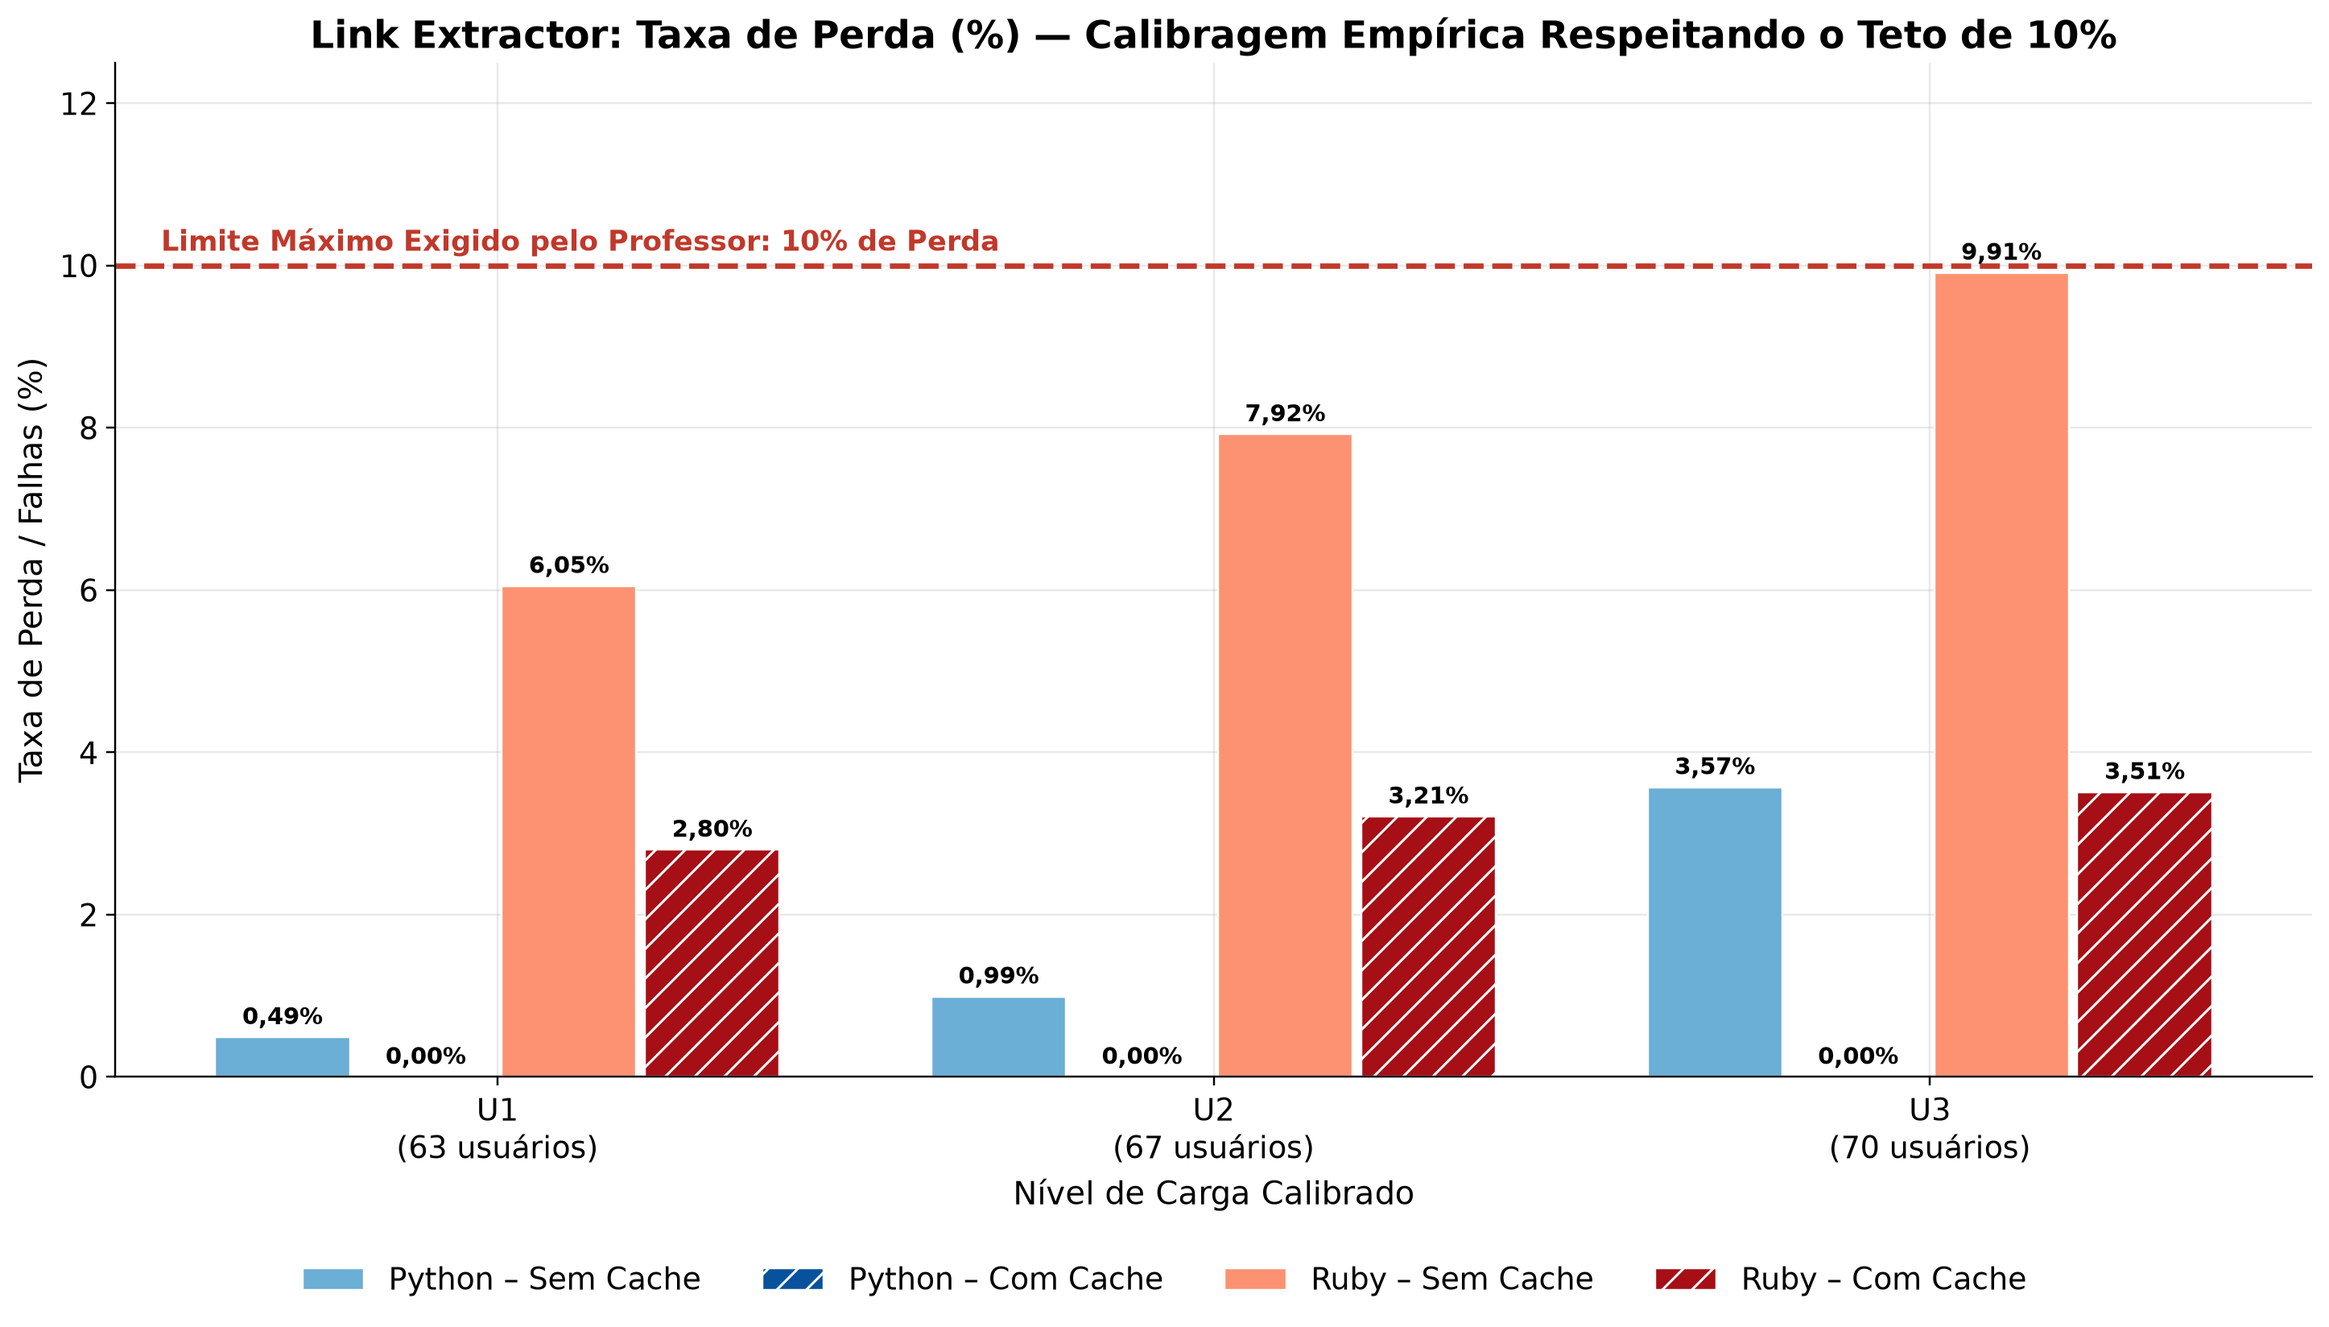
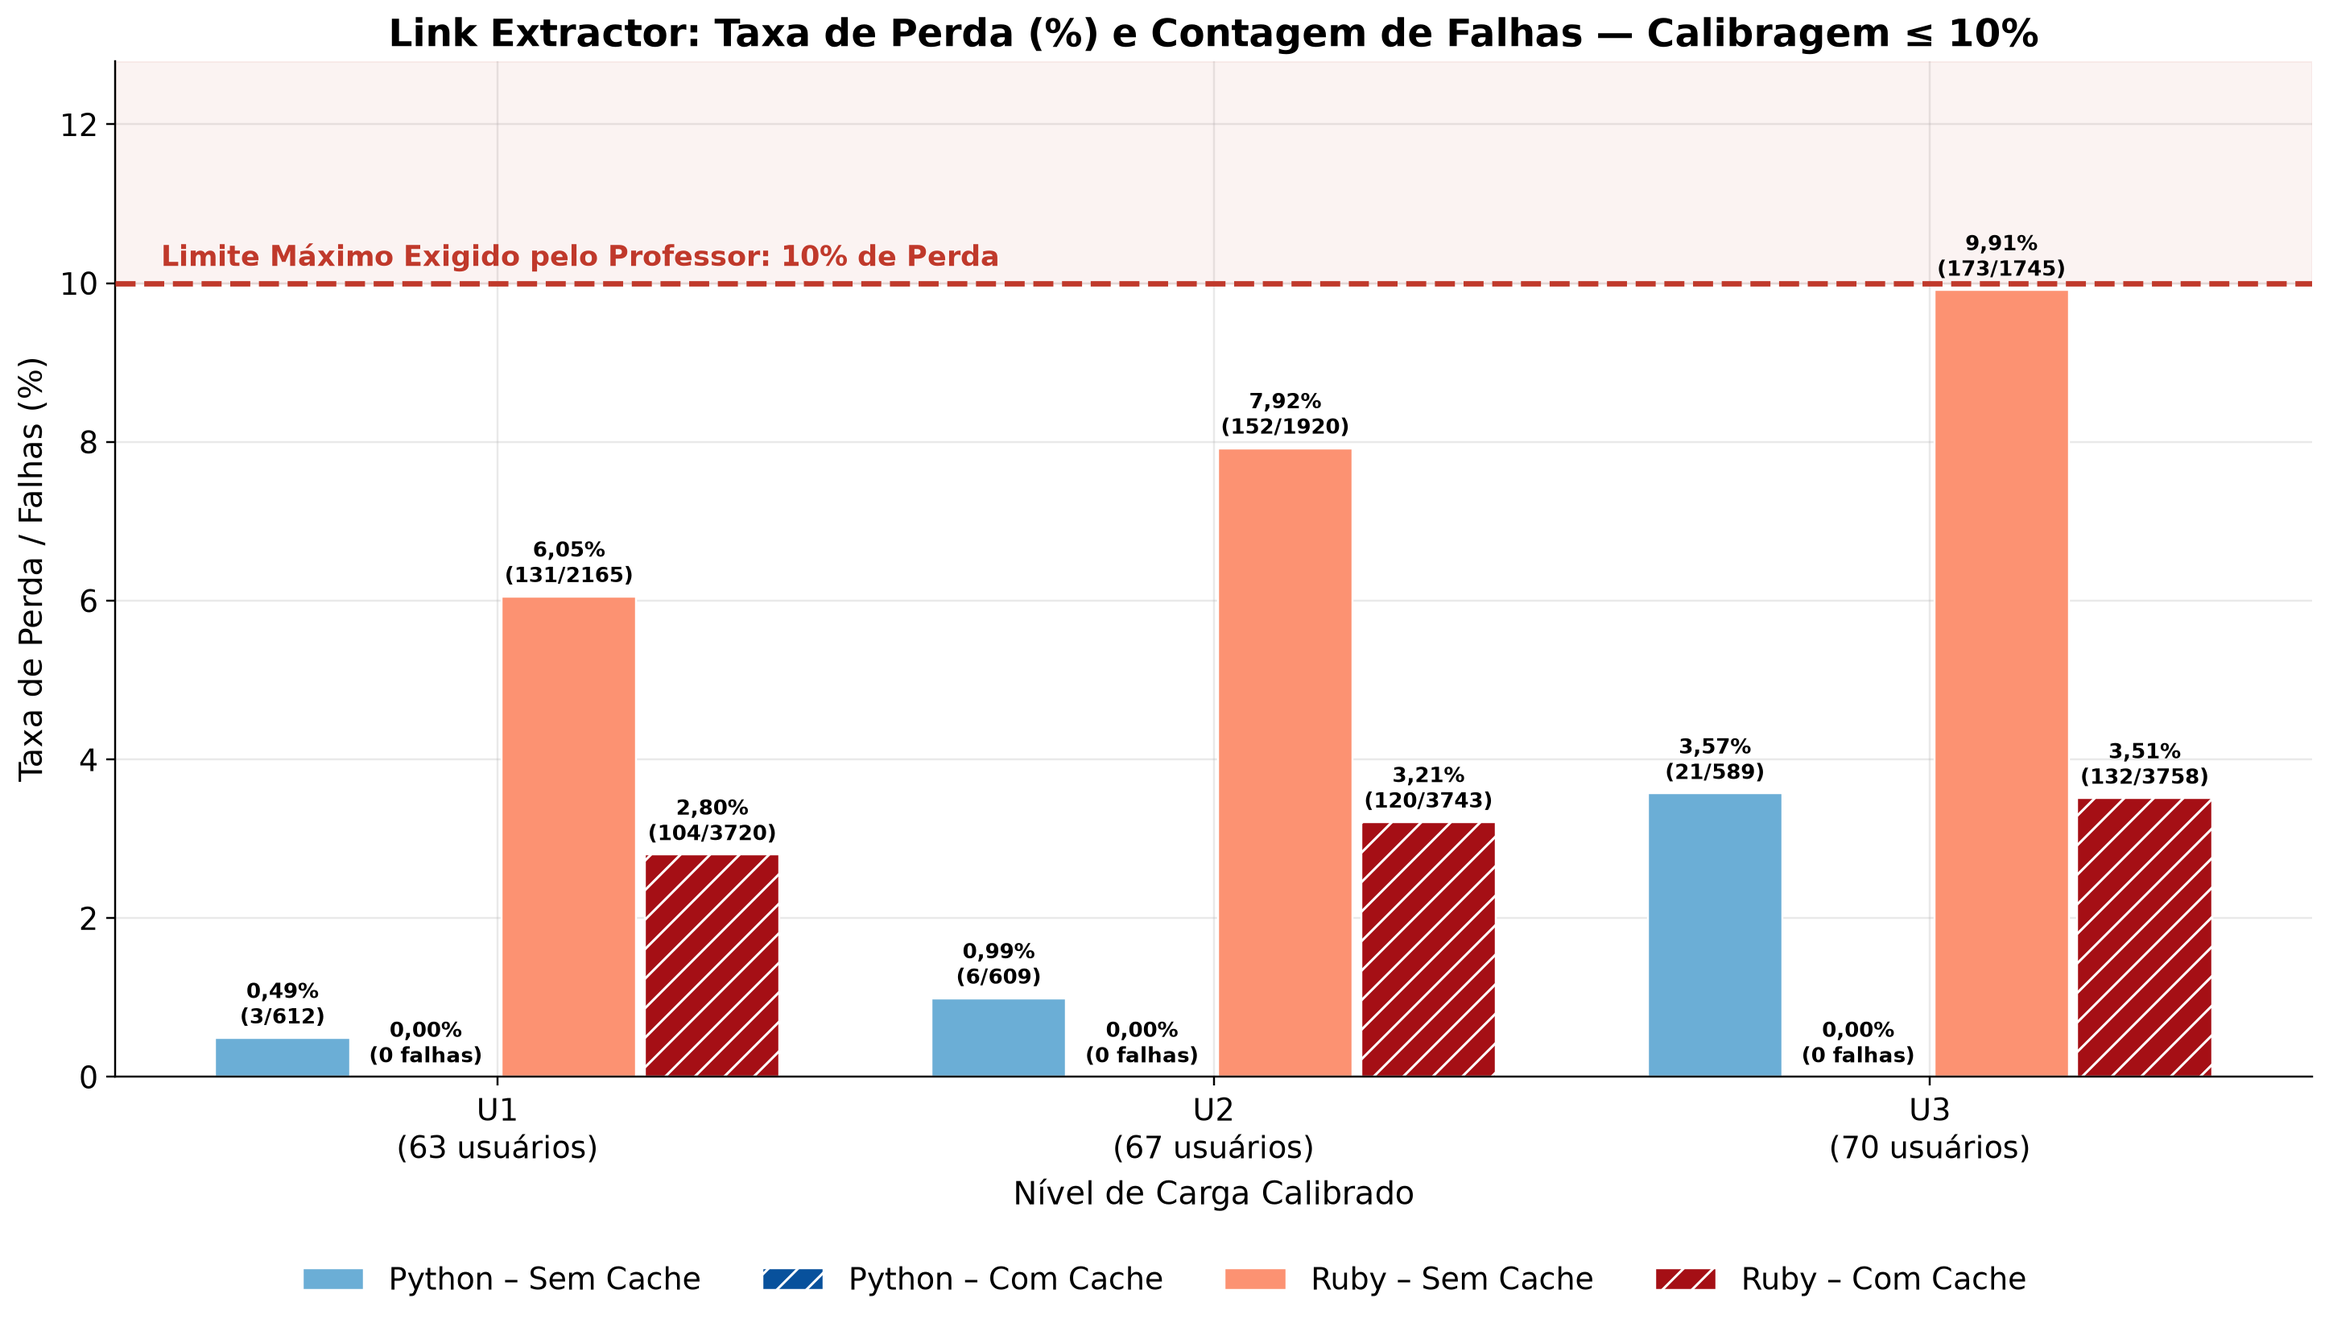
feat(graficos): adiciona graficos de barras de falhas absolutas, sucessos vs falhas e calibragem (<= 10%)

diff --git a/gerar_graficos.py b/gerar_graficos.py
@@ -1,15 +1,20 @@
 #!/usr/bin/env python3
-"""Geração de gráficos em alta resolução para o Google Slides - Trabalho 4 (Link Extractor).
+"""Geração de gráficos de barras em alta resolução para o Google Slides - Trabalho 4 (Link Extractor).
 
-Lê `resultados/tabela_consolidada_trabalho4.csv` e gera na pasta `graficos/` (formato 16:9, 220 DPI):
+Lê `resultados/tabela_consolidada_trabalho4.csv` (e `resultados/calibragem.json`) e gera na pasta `graficos/`
+(formato widescreen 16:9, 220 DPI), todos em GRÁFICOS DE BARRAS conforme exigido pelo professor:
   1. 01_tempo_resposta_media_mediana.png     -> Média e Mediana: Python vs Ruby (Sem vs Com Cache)
   2. 02_percentis_painel_comparativo.png     -> Painel consolidado p50/p90/p95/p99 nos 3 níveis U1, U2, U3
      02_percentis_U1.png / U2.png / U3.png   -> Percentis detalhados por nível de carga
   3. 03_vazao_rps.png                        -> Vazão (Requests/s) com destaque do ganho com Redis
-  4. 04_taxa_perda.png                       -> Taxa de Perda (%) comprovando o limite <= 10%
+  4. 04_taxa_perda.png                       -> Taxa de Perda (%) + contagem (falhas/total) e teto de 10%
+  5. 05_falhas_absolutas_e_sucessos.png      -> Barras de Falhas Absolutas + Barras Empilhadas (Sucessos vs. Falhas)
+  6. 06_calibragem_barras.png                -> Barras da Calibragem Empírica destacando U1, U2, U3 e o teto de 10%
 """
 
 import argparse
+import csv
+import json
 import sys
 from pathlib import Path
 
@@ -17,6 +22,8 @@ import matplotlib
 
 matplotlib.use("Agg")
 import matplotlib.pyplot as plt  # noqa: E402
+from matplotlib.lines import Line2D  # noqa: E402
+from matplotlib.patches import Patch  # noqa: E402
 import numpy as np  # noqa: E402
 import pandas as pd  # noqa: E402
 
@@ -314,27 +321,277 @@ def grafico_vazao(df: pd.DataFrame, saida: Path):
 
 
 def grafico_perda(df: pd.DataFrame, saida: Path, teto: float = 10.0):
+    """Gráfico de barras de Taxa de Perda (%) por nível (U1, U2, U3) e arquitetura,
+    exibindo tanto a porcentagem quanto a contagem absoluta (falhas/total) em cada barra."""
     niveis = sorted(df["Nível"].unique())
     rotulos = [rotulo_nivel(df)[n] for n in niveis]
     fig, ax = plt.subplots(figsize=TAMANHO_SLIDE)
-    barras_agrupadas(ax, niveis, rotulos, df, "Nível", "% de Perda", log=False, sufixo="%", fonte_valor=9.5)
-    ax.axhline(teto, color="#c0392b", linestyle="--", linewidth=2.2)
+
+    largura = 0.20
+    x = np.arange(len(niveis))
+    max_pct = teto
+    for i, (lang, cache, cor, hachura) in enumerate(SERIES):
+        valores_pct = [valor(df, lang, cache, "Nível", n, "% de Perda") for n in niveis]
+        valores_falhas = [valor(df, lang, cache, "Nível", n, "Falhas") for n in niveis]
+        valores_total = [valor(df, lang, cache, "Nível", n, "Total de Requisições") for n in niveis]
+        posicoes = x + (i - 1.5) * largura
+        barras = ax.bar(
+            posicoes,
+            valores_pct,
+            largura * 0.94,
+            label=f"{lang} – {cache}",
+            color=cor,
+            hatch=hachura,
+            edgecolor="white",
+            linewidth=0.8,
+        )
+        for barra, pct, falhas, total in zip(barras, valores_pct, valores_falhas, valores_total):
+            if not np.isnan(pct):
+                max_pct = max(max_pct, pct)
+                f_int = int(falhas) if not np.isnan(falhas) else 0
+                t_int = int(total) if not np.isnan(total) else 0
+                texto = f"{formatar(pct)}%\n({f_int}/{t_int})" if f_int > 0 else "0,00%\n(0 falhas)"
+                ax.annotate(
+                    texto,
+                    (barra.get_x() + barra.get_width() / 2.0, barra.get_height()),
+                    ha="center",
+                    va="bottom",
+                    fontsize=8.6,
+                    fontweight="bold",
+                    xytext=(0, 3),
+                    textcoords="offset points",
+                )
+
+    topo = max(teto * 1.28, max_pct * 1.22)
+    ax.axhline(teto, color="#c0392b", linestyle="--", linewidth=2.2, zorder=3)
+    ax.axhspan(teto, topo, color="#c0392b", alpha=0.06, zorder=1)
     ax.annotate(
         f"Limite Máximo Exigido pelo Professor: {teto:.0f}% de Perda",
         (ax.get_xlim()[0] + 0.05, teto),
-        xytext=(4, 6),
+        xytext=(4, 7),
         textcoords="offset points",
         color="#c0392b",
         fontsize=11.5,
         fontweight="bold",
     )
-    ax.set_ylim(0, max(teto * 1.25, ax.get_ylim()[1]))
+    ax.set_xticks(x)
+    ax.set_xticklabels(rotulos)
+    ax.set_ylim(0, topo)
     ax.set_xlabel("Nível de Carga Calibrado")
     ax.set_ylabel("Taxa de Perda / Falhas (%)")
-    ax.set_title("Link Extractor: Taxa de Perda (%) — Calibragem Empírica Respeitando o Teto de 10%")
+    ax.set_title("Link Extractor: Taxa de Perda (%) e Contagem de Falhas — Calibragem ≤ 10%")
     fig.tight_layout(rect=(0, 0.05, 1, 1))
     legenda_inferior(fig, ax)
     salvar(fig, saida / "04_taxa_perda.png")
+
+
+def grafico_falhas_absolutas_e_sucessos(df: pd.DataFrame, saida: Path):
+    """Painel duplo de gráficos de barras dedicados às falhas por nível (U1, U2, U3) e arquitetura:
+    - Esquerda: Quantidade absoluta de requisições com falha (barras agrupadas com 'N falhas (X,XX%)')
+    - Direita:  Barras empilhadas de Requisições com Sucesso vs. Requisições com Falha (volume total)
+    """
+    niveis = sorted(df["Nível"].unique())
+    rotulos = [rotulo_nivel(df)[n] for n in niveis]
+    fig, (ax_abs, ax_emp) = plt.subplots(1, 2, figsize=(15.5, 7.5))
+
+    largura = 0.20
+    x = np.arange(len(niveis))
+
+    # --- Painel 1: Quantidade Absoluta de Falhas ---
+    max_falhas = 1.0
+    for i, (lang, cache, cor, hachura) in enumerate(SERIES):
+        falhas = [valor(df, lang, cache, "Nível", n, "Falhas") for n in niveis]
+        pcts = [valor(df, lang, cache, "Nível", n, "% de Perda") for n in niveis]
+        posicoes = x + (i - 1.5) * largura
+        barras = ax_abs.bar(
+            posicoes,
+            falhas,
+            largura * 0.94,
+            label=f"{lang} – {cache}",
+            color=cor,
+            hatch=hachura,
+            edgecolor="white",
+            linewidth=0.8,
+        )
+        for barra, f_val, p_val in zip(barras, falhas, pcts):
+            if not np.isnan(f_val):
+                max_falhas = max(max_falhas, f_val)
+                f_int = int(f_val)
+                rotulo_barra = f"{f_int}\n({formatar(p_val)}%)" if f_int > 0 else "0\n(0%)"
+                ax_abs.annotate(
+                    rotulo_barra,
+                    (barra.get_x() + barra.get_width() / 2.0, barra.get_height()),
+                    ha="center",
+                    va="bottom",
+                    fontsize=8.2,
+                    fontweight="bold",
+                    xytext=(0, 3),
+                    textcoords="offset points",
+                )
+
+    ax_abs.set_xticks(x)
+    ax_abs.set_xticklabels(rotulos)
+    ax_abs.set_ylim(0, max_falhas * 1.24)
+    ax_abs.set_xlabel("Nível de Carga Calibrado")
+    ax_abs.set_ylabel("Quantidade de Requisições com Falha")
+    ax_abs.set_title("Quantidade Absoluta de Falhas (e % de Perda)")
+
+    # --- Painel 2: Barras Empilhadas (Sucessos vs. Falhas no Total de Requisições) ---
+    max_total = 1.0
+    for i, (lang, cache, cor, hachura) in enumerate(SERIES):
+        totais = [valor(df, lang, cache, "Nível", n, "Total de Requisições") for n in niveis]
+        falhas = [valor(df, lang, cache, "Nível", n, "Falhas") for n in niveis]
+        sucessos = [max(0.0, t - f) for t, f in zip(totais, falhas)]
+        posicoes = x + (i - 1.5) * largura
+
+        ax_emp.bar(
+            posicoes,
+            sucessos,
+            largura * 0.94,
+            color=cor,
+            hatch=hachura,
+            alpha=0.88,
+            edgecolor="white",
+            linewidth=0.8,
+            label=f"{lang} – {cache} (Sucessos)",
+        )
+        barras_topo = ax_emp.bar(
+            posicoes,
+            falhas,
+            largura * 0.94,
+            bottom=sucessos,
+            color="#d93829",
+            edgecolor="white",
+            linewidth=0.8,
+            label="Falhas (Timeout / Erro HTTP)" if i == 0 else None,
+        )
+        for barra, t_val, f_val in zip(barras_topo, totais, falhas):
+            if not np.isnan(t_val):
+                max_total = max(max_total, t_val)
+                t_int, f_int = int(t_val), int(f_val)
+                texto_emp = f"{t_int:,}".replace(",", ".") + f"\n({f_int} err)" if f_int > 0 else f"{t_int:,}".replace(",", ".") + "\n(0 err)"
+                ax_emp.annotate(
+                    texto_emp,
+                    (barra.get_x() + barra.get_width() / 2.0, t_val),
+                    ha="center",
+                    va="bottom",
+                    fontsize=7.2,
+                    fontweight="bold",
+                    xytext=(0, 3),
+                    textcoords="offset points",
+                )
+
+    ax_emp.set_xticks(x)
+    ax_emp.set_xticklabels(rotulos)
+    ax_emp.set_ylim(0, max_total * 1.24)
+    ax_emp.set_xlabel("Nível de Carga Calibrado")
+    ax_emp.set_ylabel("Volume Total de Requisições (Sucessos + Falhas)")
+    ax_emp.set_title("Sucessos vs. Falhas (Barras Empilhadas)")
+
+    fig.suptitle(
+        "Link Extractor: Falhas em Quantidade Absoluta e Proporção Sucessos vs. Falhas por Nível (U1, U2, U3)",
+        fontsize=16.5,
+        fontweight="bold",
+        y=1.01,
+    )
+    fig.tight_layout(rect=(0, 0.06, 1, 0.97))
+
+    handles, nomes = ax_abs.get_legend_handles_labels()
+    handles.append(Patch(facecolor="#d93829", edgecolor="white", label="Topo Vermelho = Requisições com Falha"))
+    nomes.append("Topo Vermelho = Requisições com Falha")
+    fig.legend(handles, nomes, loc="lower center", ncol=5, frameon=False, bbox_to_anchor=(0.5, -0.01))
+    salvar(fig, saida / "05_falhas_absolutas_e_sucessos.png")
+
+
+def _ler_falhas_calibragem(pasta_resultados: Path, lang: str, u: int) -> tuple[int, int]:
+    """Retorna (falhas, total) do CSV bruto da calibragem, se existir."""
+    arq = pasta_resultados / "calibragem" / f"{lang}_sem_cache_users{u}_stats.csv"
+    if not arq.exists():
+        return (0, 0)
+    with open(arq, newline="", encoding="utf-8") as f:
+        for linha in csv.DictReader(f):
+            if linha.get("Name") == "Aggregated":
+                return (int(linha["Failure Count"]), int(linha["Request Count"]))
+    return (0, 0)
+
+
+def grafico_calibragem_barras(pasta_resultados: Path, saida: Path):
+    """Gráfico de barras da Calibragem Empírica (resultados/calibragem.json), destacando os
+    níveis U1, U2, U3 escolhidos abaixo do teto de 10% e a carga acima do teto."""
+    arq_cal = pasta_resultados / "calibragem.json"
+    if not arq_cal.exists():
+        return
+    cal = json.loads(arq_cal.read_text(encoding="utf-8"))
+    teto = float(cal.get("teto_perda_pct", 10.0))
+    lang_ref = cal.get("linguagem_referencia", "python")
+    niveis_u = [int(u) for u in cal.get("usuarios", [])]
+    medicoes_dict = cal.get("por_linguagem", {}).get(lang_ref, {}).get("medicoes", {})
+    if not medicoes_dict:
+        return
+
+    pontos = sorted((int(u), float(p)) for u, p in medicoes_dict.items())
+    usuarios = [u for u, _ in pontos]
+    pcts = [p for _, p in pontos]
+    mapa_niveis = {u: f"U{idx + 1}" for idx, u in enumerate(niveis_u)}
+
+    cores = []
+    for u, p in pontos:
+        if u in mapa_niveis:
+            cores.append("#eb6834")  # Nível escolhido U1, U2, U3
+        elif p > teto:
+            cores.append("#c0392b")  # Acima do teto de 10%
+        else:
+            cores.append("#2a78d6")  # Sondagem abaixo do teto
+
+    fig, ax = plt.subplots(figsize=TAMANHO_SLIDE)
+    x = np.arange(len(pontos))
+    barras = ax.bar(x, pcts, width=0.62, color=cores, edgecolor="white", linewidth=1.0, zorder=3)
+
+    max_y = max(teto * 1.4, max(pcts, default=teto) * 1.20)
+    for barra, (u, p) in zip(barras, pontos):
+        falhas, total = _ler_falhas_calibragem(pasta_resultados, lang_ref, u)
+        detalhe = f"\n({falhas}/{total})" if total > 0 else ""
+        texto = f"{formatar(p)}%{detalhe}"
+        ax.annotate(
+            texto,
+            (barra.get_x() + barra.get_width() / 2.0, barra.get_height()),
+            ha="center",
+            va="bottom",
+            fontsize=9.2,
+            fontweight="bold",
+            xytext=(0, 4),
+            textcoords="offset points",
+        )
+
+    ax.axhline(teto, color="#c0392b", linestyle="--", linewidth=2.2, zorder=2)
+    ax.axhspan(teto, max_y, color="#c0392b", alpha=0.06, zorder=1)
+    ax.annotate(
+        f"Teto Máximo de Perda Exigido pelo Professor: {teto:.0f}%",
+        (0.05, teto),
+        xytext=(4, 7),
+        textcoords="offset points",
+        color="#c0392b",
+        fontsize=11.5,
+        fontweight="bold",
+    )
+
+    rotulos_x = [f"{u} usuários\n({mapa_niveis[u]})" if u in mapa_niveis else f"{u} usuários" for u in usuarios]
+    ax.set_xticks(x)
+    ax.set_xticklabels(rotulos_x)
+    ax.set_ylim(0, max_y)
+    ax.set_xlabel(f"Cargas Testadas na Calibragem Empírica ({lang_ref.capitalize()} Sem Cache)")
+    ax.set_ylabel("Taxa de Perda / Falhas (%)")
+    ax.set_title("Link Extractor: Calibragem Empírica em Gráfico de Barras — Escolha de [U1, U2, U3] ≤ 10%")
+
+    legenda_cal = [
+        Patch(facecolor="#2a78d6", label="Carga de sondagem (≤ 10%)"),
+        Patch(facecolor="#eb6834", label="Níveis calibrados escolhidos (U1, U2, U3)"),
+        Patch(facecolor="#c0392b", label="Carga rejeitada (> 10% de perda)"),
+        Line2D([0], [0], color="#c0392b", linestyle="--", linewidth=2.2, label=f"Limite de {teto:.0f}% de perda"),
+    ]
+    fig.tight_layout(rect=(0, 0.05, 1, 1))
+    fig.legend(handles=legenda_cal, loc="lower center", ncol=4, frameon=False, bbox_to_anchor=(0.5, -0.01))
+    salvar(fig, saida / "06_calibragem_barras.png")
 
 
 def main():
@@ -357,6 +614,8 @@ def main():
     grafico_percentis(df, args.saida, log)
     grafico_vazao(df, args.saida)
     grafico_perda(df, args.saida)
+    grafico_falhas_absolutas_e_sucessos(df, args.saida)
+    grafico_calibragem_barras(args.resultados, args.saida)
 
 
 if __name__ == "__main__":

diff --git a/README.md b/README.md
@@ -241,8 +241,12 @@ Todos os gráficos são gerados automaticamente em `220 DPI` (formato widescreen
    ![Painel Comparativo de Percentis](graficos/02_percentis_painel_comparativo.png)
 3. **Vazão (Requisições por Segundo — RPS):** [`graficos/03_vazao_rps.png`](graficos/03_vazao_rps.png)
    ![Comparativo de Vazão (RPS)](graficos/03_vazao_rps.png)
-4. **Taxa de Perda / Falhas (%) vs. Limite Máximo de 10%:** [`graficos/04_taxa_perda.png`](graficos/04_taxa_perda.png)
+4. **Taxa de Perda / Falhas (%) + Contagem Absoluta vs. Limite Máximo de 10%:** [`graficos/04_taxa_perda.png`](graficos/04_taxa_perda.png)
    ![Taxa de Perda e Teto de 10%](graficos/04_taxa_perda.png)
+5. **Quantidade Absoluta de Falhas e Proporção Sucessos vs. Falhas (Barras Agrupadas e Empilhadas):** [`graficos/05_falhas_absolutas_e_sucessos.png`](graficos/05_falhas_absolutas_e_sucessos.png)
+   ![Quantidade Absoluta de Falhas e Sucessos vs. Falhas](graficos/05_falhas_absolutas_e_sucessos.png)
+6. **Calibragem Empírica em Gráfico de Barras (`[U1, U2, U3]` vs. Teto de 10%):** [`graficos/06_calibragem_barras.png`](graficos/06_calibragem_barras.png)
+   ![Calibragem Empírica em Gráfico de Barras](graficos/06_calibragem_barras.png)
 
 ---
 
